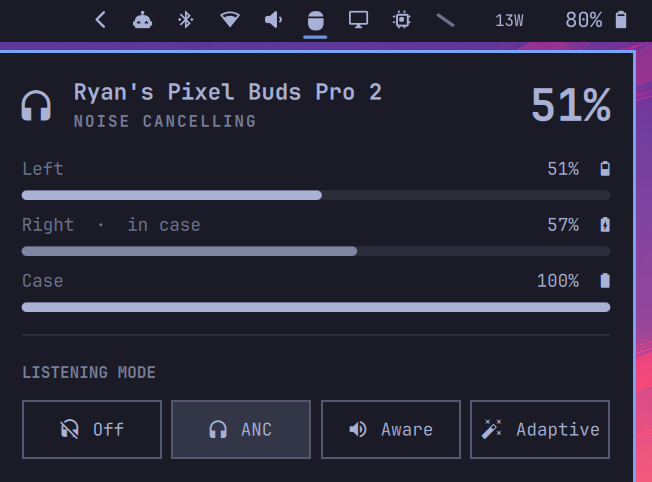
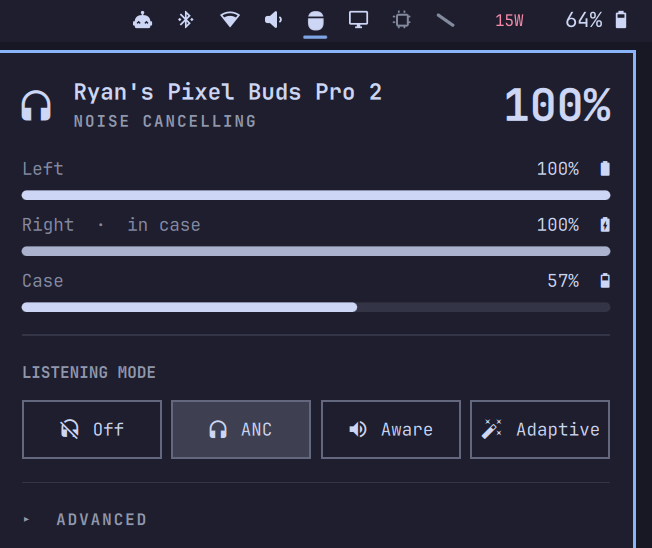
Release 1.4.0
Since the listed 1.3.2 snapshot: permanent marketplace id
(io.github.rdoupe.pixelbuds), device toggles and an Advanced sound
section (EQ, balance, mono), low-battery urgent tint,
hideWhenDisconnected, clipboard-based pbpctrl install flow, serialized
generation-stamped pbpctrl op queue, instant disconnect handoff
(verified on hardware: no reconnect fight, zero lingering processes),
bounded and killable device I/O, race-free descriptor-based case cache,
strict MAC/value validation, PlainText rendering, showAdvanced IPC, and
a fresh preview.

Claude-Session: https://claude.ai/code/session_01HWCK53a22j5MQfTDSe45H7

diff --git a/Panel.qml b/Panel.qml
@@ -221,6 +221,7 @@ Panel {
     function show() { root.open() }
     function hide() { root.close() }
     function toggle() { root.toggle() }
+    function showAdvanced() { root.open(); root.advancedOpen = true }
     function refresh() { root.refresh() }
     function cycleAnc() { root.cycleAnc(1) }
     function setAnc(mode: string) { root.setAnc(mode) }

diff --git a/README.md b/README.md
@@ -67,7 +67,7 @@ Configure via the bar widget settings or directly in
 ## IPC
 
 The widget exposes the IPC target `io.github.rdoupe.pixelbuds` with methods `open`,
-`close`, `toggle`, `refresh`, `cycleAnc`, and `setAnc(mode)` where mode is one
+`close`, `toggle`, `showAdvanced`, `refresh`, `cycleAnc`, and `setAnc(mode)` where mode is one
 of `off`, `active`, `aware`, `adaptive`:
 
 ```bash
